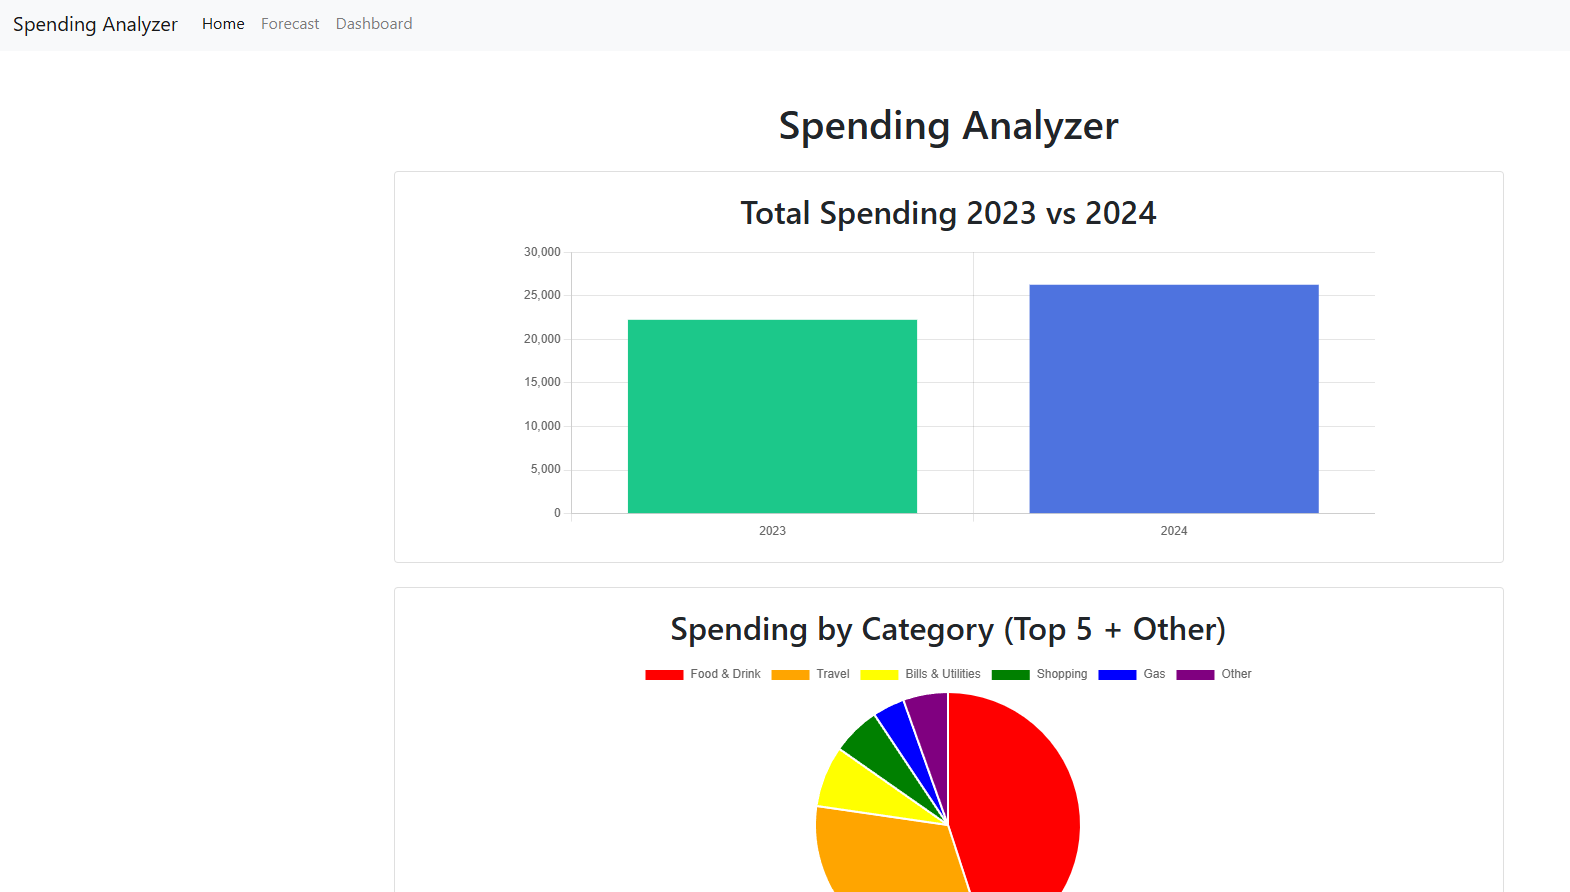
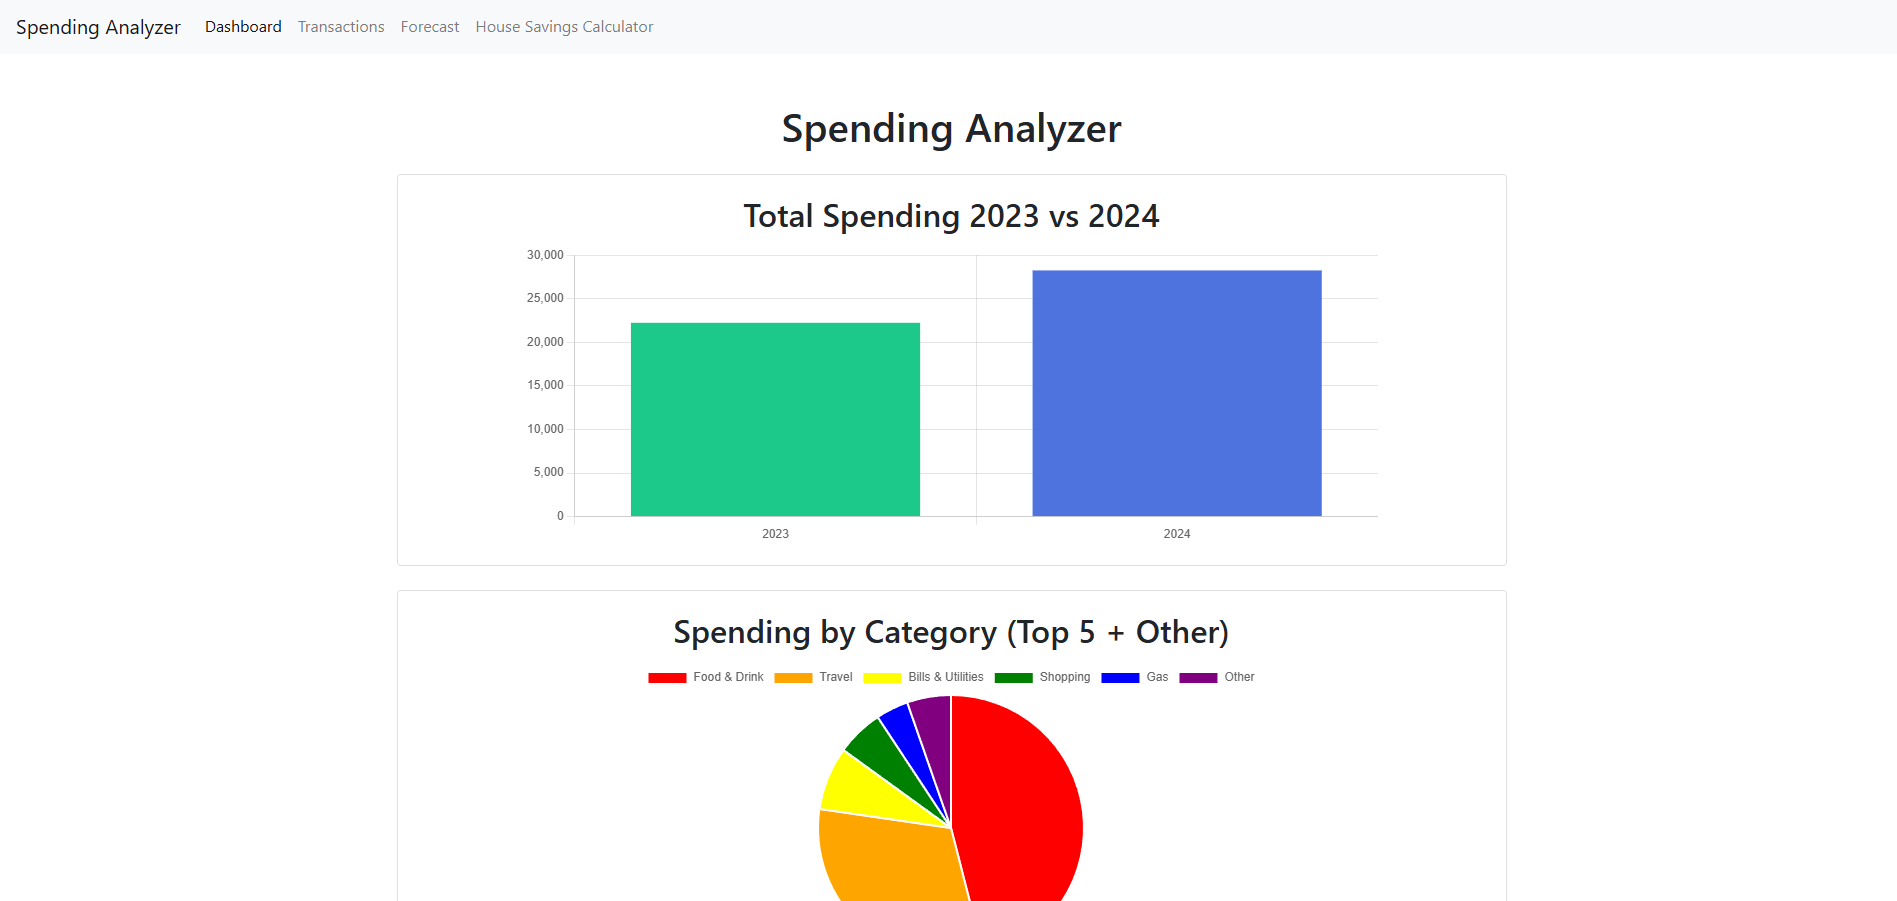
updated readme with new pages

diff --git a/README.md b/README.md
@@ -23,10 +23,18 @@ Sample CSV:
 - **Monthly Spending Comparison**: Compares monthly spending between the two years.
 - **Purchase Map**: Shows geographic locations in New York where purchases were made.
 
+## Transactions
+The application includes a detailed transaction history page. Users can view all their transactions in a tabular format, sorted by date range, description, category, or amount. This feature helps users keep track of their spending habits and identify any unusual transactions.
+
 ## Forecasting
 The application utilizes the Prophet forecasting model to predict spending amounts for the upcoming 12 months. This feature provides users with insights into future spending trends based on historical data.
 
 ![Forecasting Page Screenshot](static/forecasting_page_screenshot.png)
+
+## House Savings Calculator
+The application includes a House Savings Calculator feature that helps users estimate the amount of money they need to save for a house down payment. Users can input their target house price, desired down payment percentage, and current savings. The calculator will then provide a savings plan, including the monthly savings required to reach the goal within a specified time frame. This feature assists users in planning and achieving their homeownership goals.
+
+![House Savings Calculator Screenshot](static/homesavings_page_screenshot.png)
 
 ## Run
 ```
